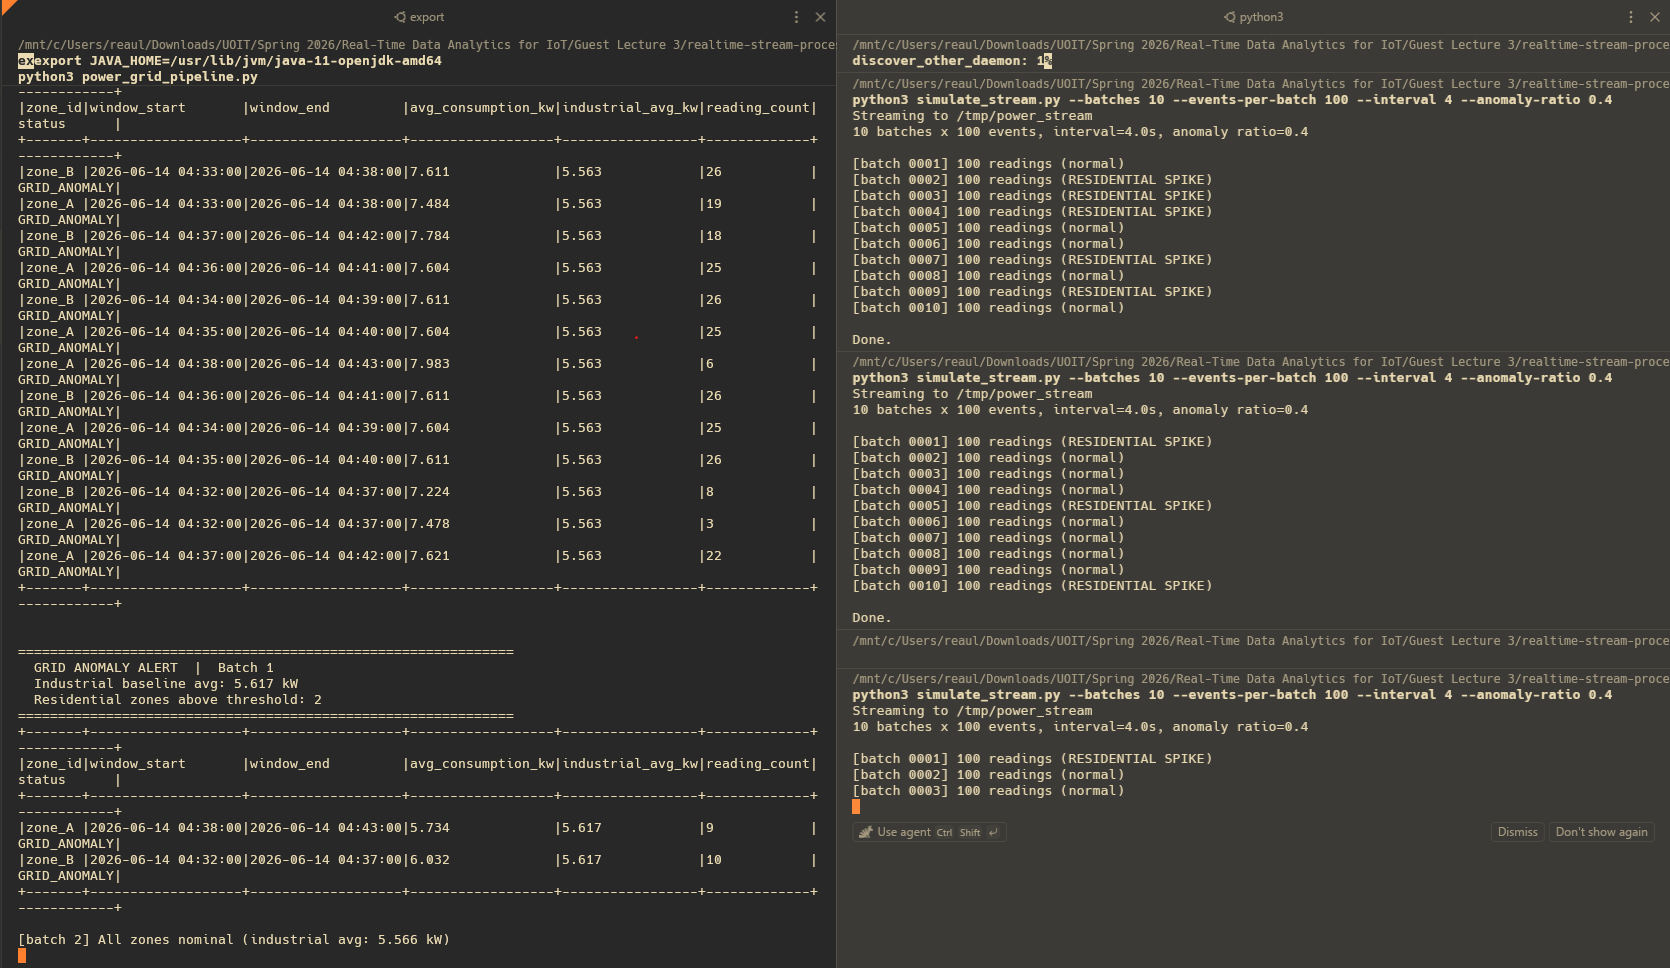
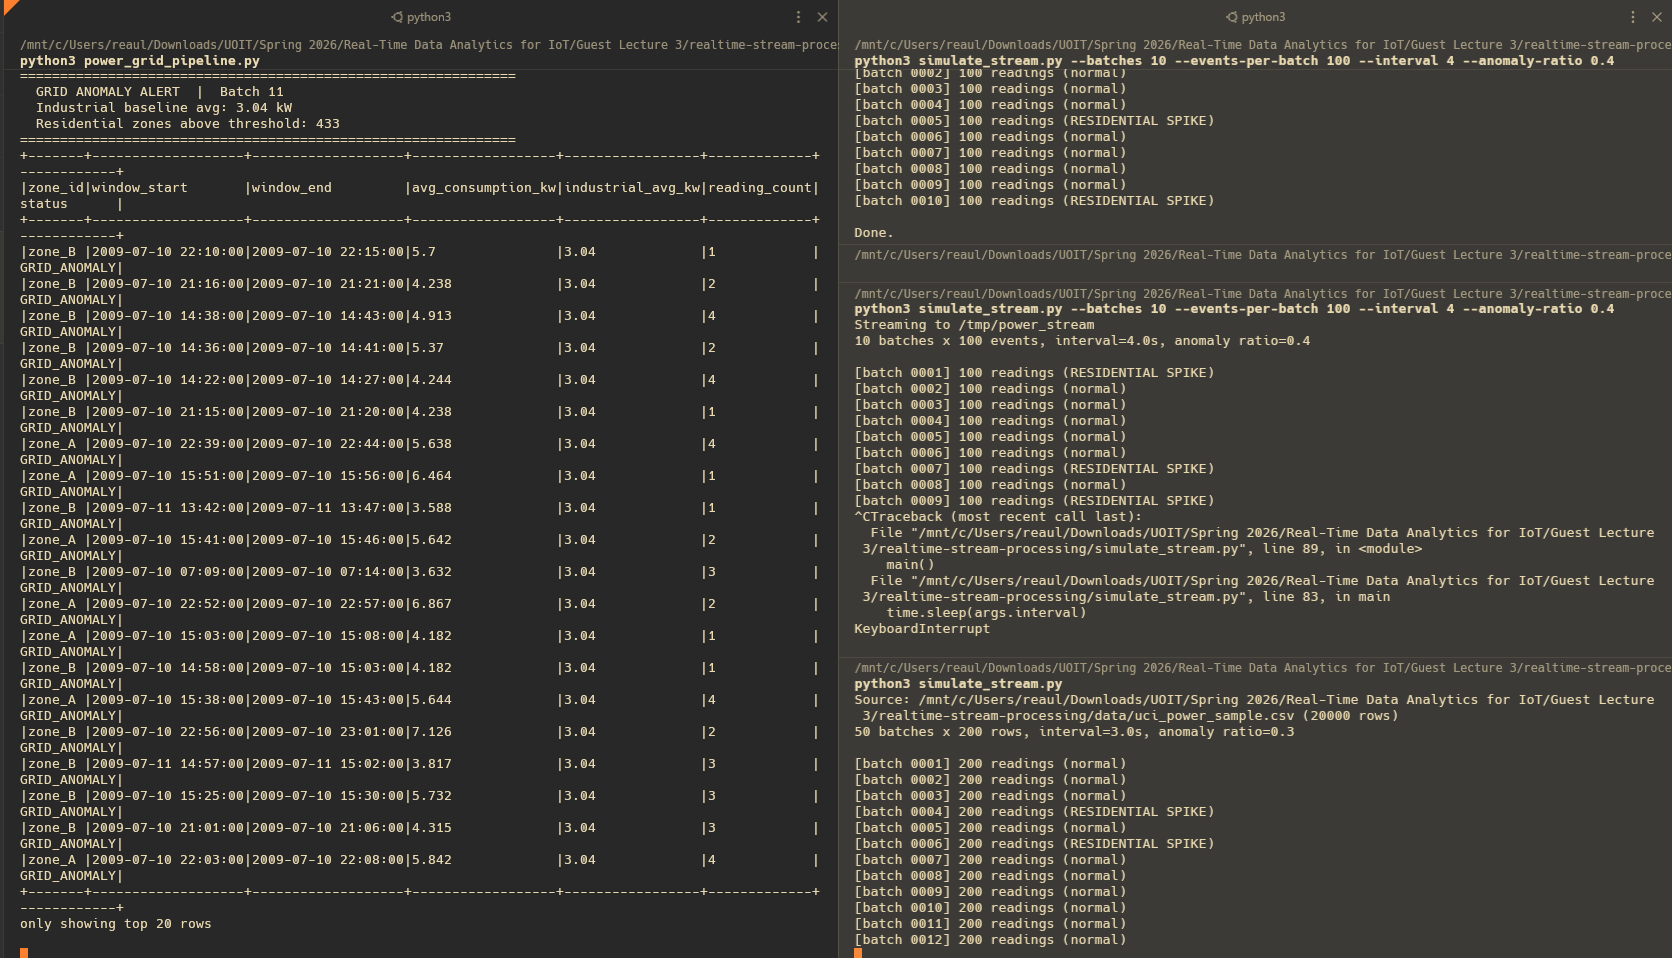
Update sample output and screenshots for real UCI data

diff --git a/README.md b/README.md
@@ -95,15 +95,15 @@ python simulate_stream.py --max-batches 0 --rows-per-batch 200 --interval 2
 
 ```
 ==============================================================
-  GRID ANOMALY ALERT  |  Batch 5
-  Industrial baseline avg: 5.412 kW
+  GRID ANOMALY ALERT  |  Batch 7
+  Industrial baseline avg: 1.637 kW
   Residential zones above threshold: 2
 ==============================================================
 +-------+-------------------+-------------------+------------------+-----------------+-------------+------------+
 |zone_id|window_start       |window_end         |avg_consumption_kw|industrial_avg_kw|reading_count|status      |
 +-------+-------------------+-------------------+------------------+-----------------+-------------+------------+
-|zone_A |2026-06-14 12:00:00|2026-06-14 12:05:00|7.234             |5.412            |14           |GRID_ANOMALY|
-|zone_B |2026-06-14 12:00:00|2026-06-14 12:05:00|6.891             |5.412            |11           |GRID_ANOMALY|
+|zone_A |2009-07-10 06:02:00|2009-07-10 06:07:00|4.219             |1.637            |4            |GRID_ANOMALY|
+|zone_B |2009-07-10 06:19:00|2009-07-10 06:24:00|4.222             |1.637            |1            |GRID_ANOMALY|
 +-------+-------------------+-------------------+------------------+-----------------+-------------+------------+
 ```
 